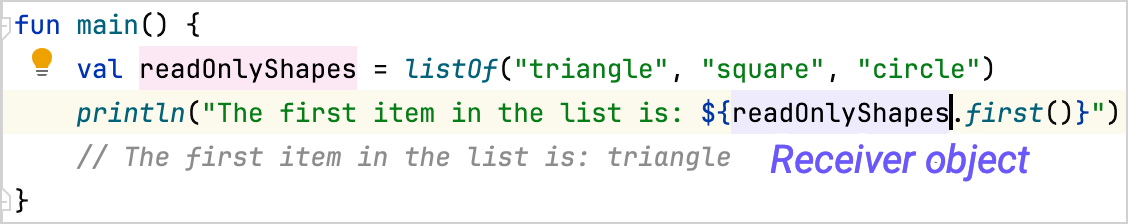
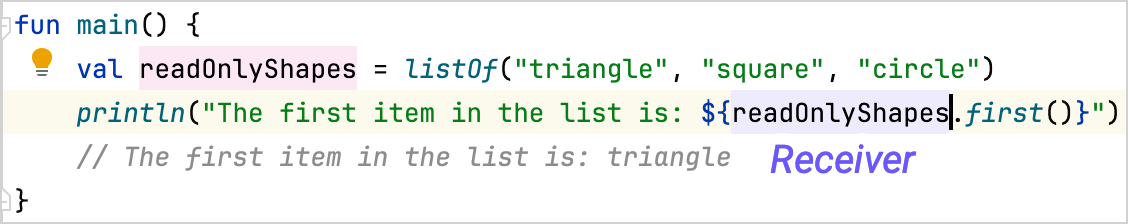
chore: simplify receiver description in intermediate tour

Changed region(s): [[0.8067, 0.625, 0.9309, 0.8125]]

diff --git a/docs/topics/tour/kotlin-tour-intermediate-extension-functions.md b/docs/topics/tour/kotlin-tour-intermediate-extension-functions.md
@@ -19,26 +19,21 @@ can help you use efficient design patterns to take your projects to the next lev
 
 ## Extension functions
 
-In software development, you often need to modify the behavior of a program without altering the original source code. 
-For example, in your project, you might want to add extra functionality to a class from a third-party library.
+In software development, you often need to modify a program's behavior without changing the original source code. 
+For example, you might want to add extra functionality to a class from a third-party library.
 
-Extension functions allow you to extend a class with additional functionality. You call extension functions the same way 
-you call member functions of a class.
+You can do this by adding _extension functions_ to extend a class. You call extension functions the same way 
+you call member functions of a class, using a period `.`.
 
-Before introducing the syntax for extension functions, you need to understand the terms **receiver type** and 
-**receiver object**.
-
-The receiver object is what the function is called on. In other words, the receiver is where or with whom the information is shared.
+Before introducing the complete syntax for extension functions, you need to understand what a **receiver** is.
+The receiver is what the function is called on. In other words, the receiver is where or with whom the information is shared.
 
 ![An example of sender and receiver](receiver-highlight.png){width="500"}
 
-In this example, the `main()` function calls the [`.first()`](https://kotlinlang.org/api/core/kotlin-stdlib/kotlin.collections/first.html) function.
+In this example, the `main()` function calls the [`.first()`](https://kotlinlang.org/api/core/kotlin-stdlib/kotlin.collections/first.html) function to return the first element in a list.
 The `.first()` function is called **on** the `readOnlyShapes` variable, so the `readOnlyShapes` variable is the receiver.
 
-The receiver object has a **type** so that the compiler understands when the function can be used.
-
-This example uses the `.first()` function from the standard library to return the first element in a list. To create
-your own extension function, write the name of the class that you want to extend followed by a `.` and the name of
+To create an extension function, write the name of the class that you want to extend followed by a `.` and the name of
 your function. Continue with the rest of the function declaration, including its arguments and return type.
 
 For example:
@@ -47,7 +42,7 @@ For example:
 fun String.bold(): String = "<b>$this</b>"
 
 fun main() {
-    // "hello" is the receiver object
+    // "hello" is the receiver
     println("hello".bold())
     // <b>hello</b>
 }
@@ -56,11 +51,11 @@ fun main() {
 
 In this example:
 
-* `String` is the extended class, also known as the receiver type.
+* `String` is the extended class.
 * `bold` is the name of the extension function. 
 * The `.bold()` extension function's return type is `String`.
-* `"hello"`, an instance of `String`, is the receiver object.
-* The receiver object is accessed inside the body by the [keyword](keyword-reference.md): `this`.
+* `"hello"`, an instance of `String`, as the receiver.
+* The receiver is accessed inside the body by the [keyword](keyword-reference.md): `this`.
 * A string template (`$`) is used to access the value of `this`.
 * The `.bold()` extension function takes a string and returns it in a `<b>` HTML element for bold text.
 

diff --git a/docs/topics/tour/kotlin-tour-intermediate-lambdas-receiver.md b/docs/topics/tour/kotlin-tour-intermediate-lambdas-receiver.md
@@ -14,7 +14,7 @@
         <img src="icon-9-todo.svg" width="20" alt="Ninth step" /> <a href="kotlin-tour-intermediate-libraries-and-apis.md">Libraries and APIs</a></p>
 </tldr>
 
-In this chapter, you'll learn how to use receiver objects with another type of function, lambda expressions, and how they
+In this chapter, you'll learn how to use receivers with another type of function, lambda expressions, and how they
 can help you create a domain-specific language.
 
 ## Lambda expressions with receiver
@@ -80,7 +80,7 @@ In this example:
   directly as if they are inside the `Canvas` class.
 
 Lambda expressions with receiver are helpful when you want to create a domain-specific language (DSL). Since you have
-access to the receiver object's member functions and properties without explicitly referencing the receiver, your code 
+access to the receiver's member functions and properties without explicitly referencing the receiver, your code 
 becomes leaner.
 
 To demonstrate this, consider an example that configures items in a menu. Let's begin with a `MenuItem` class and a 

diff --git a/docs/topics/tour/kotlin-tour-intermediate-properties.md b/docs/topics/tour/kotlin-tour-intermediate-properties.md
@@ -126,7 +126,7 @@ fields. This means that you need to write the `get()` and `set()` functions your
 field means that they can't hold any state.
 
 To declare an extension property, write the name of the class that you want to extend followed by a `.` and the name of
-your property. Just like with normal class properties, you need to declare a receiver type for your property. 
+your property. Just like with normal class properties, you need to declare a type for your property. 
 For example:
 
 ```kotlin
@@ -135,7 +135,7 @@ val String.lastChar: Char
 {validate="false"}
 
 Extension properties are most useful when you want a property to contain a computed value without using inheritance.
-You can think of extension properties working like a function with only one parameter: the receiver object.
+You can think of extension properties working like a function with only one parameter: the receiver.
 
 For example, let's say that you have a data class called `Person` with two properties: `firstName` and `lastName`.
 

diff --git a/docs/topics/tour/kotlin-tour-intermediate-scope-functions.md b/docs/topics/tour/kotlin-tour-intermediate-scope-functions.md
@@ -392,7 +392,7 @@ fun main() {
 {kotlin-runnable="true" id="kotlin-tour-scope-function-with-after"}
 
 This example:
-* Uses the `with` scope function with the `mainMonitorSecondaryBufferBackedCanvas` instance as the receiver object.
+* Uses the `with` scope function with the `mainMonitorSecondaryBufferBackedCanvas` instance as the receiver.
 * Creates a temporary scope within the `with` scope function so that you don't have to explicitly refer to the `mainMonitorSecondaryBufferBackedCanvas` instance when calling its member functions.
 * Passes a lambda expression to the `with` scope function that calls a sequence of member functions with different function parameters.
 
